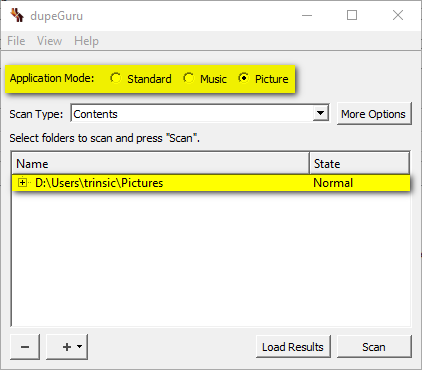
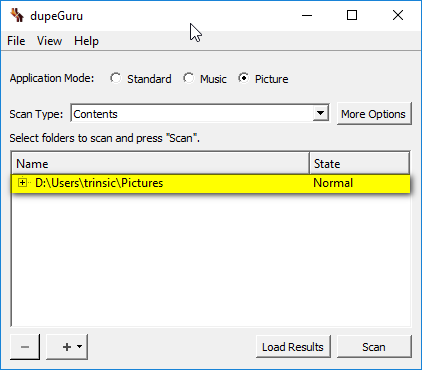
updated path and some images to better reflect the text

diff --git a/content/resources/guides/guide-removing-duplicate-photos-dupeguru.md b/content/resources/guides/guide-removing-duplicate-photos-dupeguru.md
@@ -21,21 +21,21 @@ This guide shows you how to scan and remove duplicate photos using the PC applic
 Launch DupeGuru from the desktop icon. Select the application mode for the appropriate files you are going to be scanning for: Standard, Music, or Pictures.
 
 Since this guide is going to be for Pictures choose that mode.
-![dupeGuru Application Mode Screenshot](http://scottrlarson.com/img/guides/dupeGuru/dupeGuru-path-selected.png)
+![dupeGuru Application Mode Screenshot](/img/guides/dupeGuru/dupeGuru-mode-selected.png)
 
 Tap on the plus icon to choose the folders to scan for duplicates.
-![dupeGuru Add Path Screenshot](http://scottrlarson.com/img/guides/dupeGuru/dg-add.png)
+![dupeGuru Add Path Screenshot](/img/guides/dupeGuru/dg-add.png)
 
 On the left column, choose "This PC" and then select your "Pictures" folder then click "Select Folder" at the bottom right.
-![dupeGuru Folder Selection Screenshot](http://scottrlarson.com/img/guides/dupeGuru/dupeGuru-folder-select.png)
+![dupeGuru Folder Selection Screenshot](/img/guides/dupeGuru/dupeGuru-folder-select.png)
 
 After the window disappears you will see a path to your pictures appear in the scan window. Click that path and then click "Scan" at the bottom right.
-![dupeGuru Scan Selection Screenshot](http://scottrlarson.com/img/guides/dupeGuru/dupeGuru-scan-selected.png)
+![dupeGuru Scan Selection Screenshot](/img/guides/dupeGuru/dupeGuru-scan-selected.png)
 
 After that a progress bar will appear as DupeGuru gets to work.
-![dupeGuru Scan Progress Screenshot](http://scottrlarson.com/img/guides/dupeGuru/dupeGuru-scan.png)
+![dupeGuru Scan Progress Screenshot](/img/guides/dupeGuru/dupeGuru-scan.png)
 
 You may have to wait some time, depending on the size of the selected folders.
 
 Eventually a list of matches appears on screen. Original files are marked in blue, with duplicates underneath, so tick individual files or select Mark and Mark All to tick everything at once. Files can be deleted, or copied or moved to another location for checking.
-![dupeGuru Results Screenshot](http://scottrlarson.com/img/guides/dupeGuru/dupeGuru-Results.png)
+![dupeGuru Results Screenshot](/img/guides/dupeGuru/dupeGuru-Results.png)
